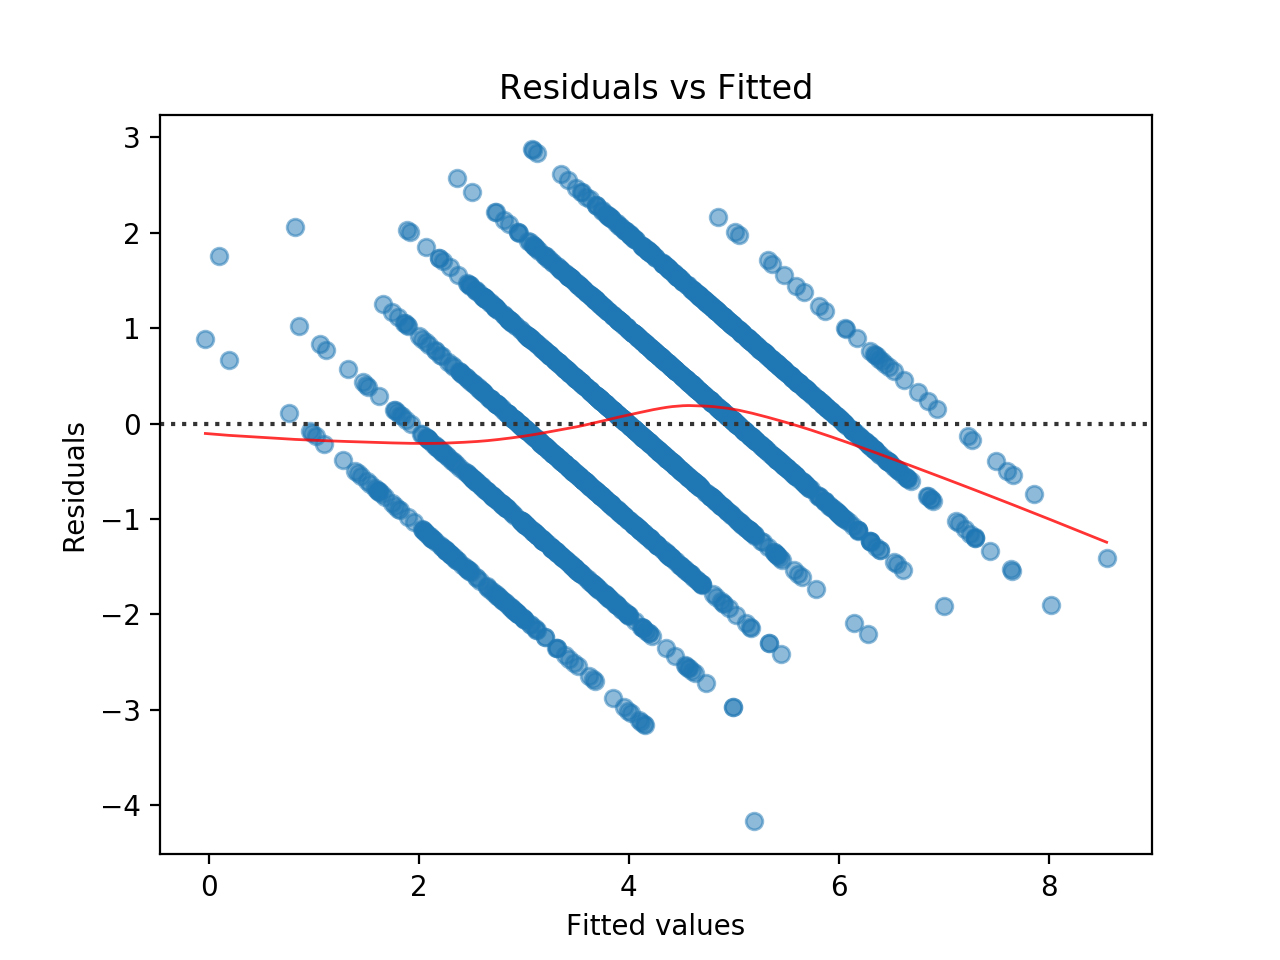
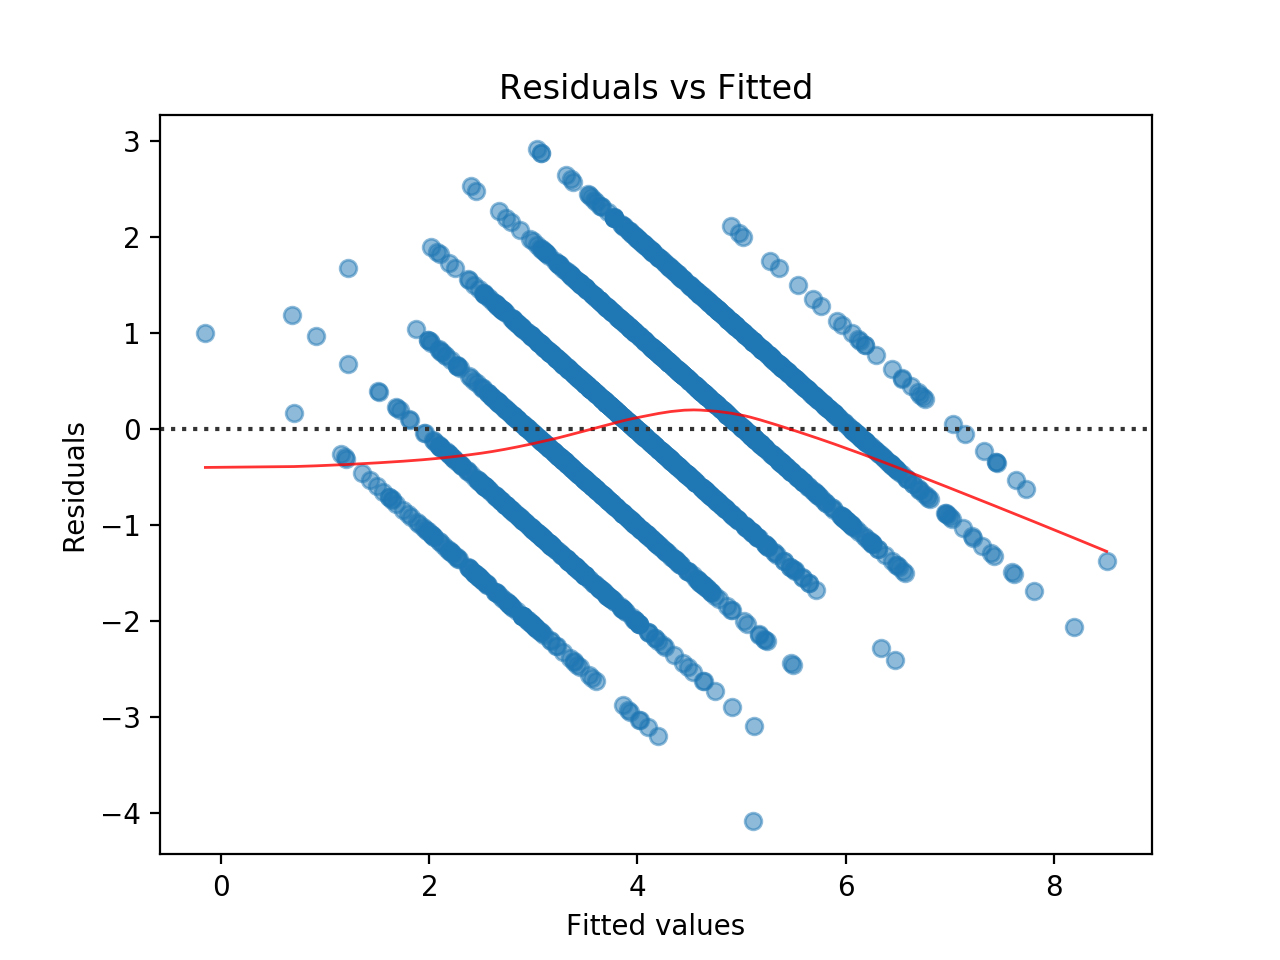
linear regression part 4 rough draft finished

diff --git a/_posts/2018-09-15-refresh-linear-regression-3.md b/_posts/2018-09-15-refresh-linear-regression-3.md
@@ -8,13 +8,12 @@ tags:
 - Linear Regression
 - Stream of Progress
 - Python
-- R
 description: 'Reviewing Linear Regression for Practice. Using Kaggle Public Dataset : Skillcraft'
 categories:
 - Linear Regression
 ---
 
-## I strongly suggest you read this part first
+## Read me first
 
 I'm going to do a simple linear regression on the variable provided in the dataset and try to visualize some problematic variables and try to make a final model with the most correlated variable. In the end, I will organize and make a kernel up on Kaggle.com if possible, so go to the link on the bottom for an organized report. 'Stream of Progress' tags are a progressive post that are going to talk about stuff that maybe aren't so worth your time.
 
@@ -149,7 +148,37 @@ TotalMapExplored     1.300130
 WorkersMade          1.189928
 {% endhighlight %}
 
-Lovely. Let's check the summary.
+Lovely. Just in case let me reduce ActionLatency instead of NumberOfPACs to see if the other model is better (ActionLatency also had VIF value over 5)
+
+{% highlight python %}
+# reducing the other variable
+removed_cols = ['GameID','LeagueIndex','TotalHours','MinimapRightClicks',
+                'UniqueUnitsMade','ComplexUnitsMade','ComplexAbilitiesUsed']
+removed_cols = removed_cols + ['APM','ActionLatency']
+x_7 = df_train.drop(removed_cols, axis=1)
+model_7 = sm.OLS(y,x_7).fit()
+
+# testing with VIF again
+mc_x = add_constant(x_7)
+pd.Series([variance_inflation_factor(mc_x.values, i) for i in range(mc_x.shape[1])],index=mc_x.columns)
+{% endhighlight %}
+
+{% highlight text %}
+const               157.123643
+Age                   1.104197
+HoursPerWeek          1.096788
+SelectByHotkeys       1.462628
+AssignToHotkeys       1.611384
+UniqueHotkeys         1.270006
+MinimapAttacks        1.122171
+NumberOfPACs          3.020198
+GapBetweenPACs        1.933692
+ActionsInPAC          1.824861
+TotalMapExplored      1.392885
+WorkersMade           1.261149
+{% endhighlight %}
+
+Hmm... while Model 6 has 2 variables with VIF over 2, Model 7 has 1 variable with VIF over 3 but others are lower than 2. Perhaps we should check this with ANOVA. Before going into ANOVA, let's check out their model summary!
 
 {% highlight python %}
 print(model_6.summary())
@@ -194,6 +223,62 @@ Warnings:
 strong multicollinearity or other numerical problems.
 {% endhighlight %}
 
-Just by skimming through the summary, seems like it's not a bad model. It still have the warning, but we have checked the VIF values. Even if ANOVA test states that Model 2 is superior, due to multicollinearity problems, I am going to pick Model 6 anyway, so let's now hop on Residual Analysis and how well it does on the test set!
+{% highlight python %}
+print(model_7.summary())
+{% endhighlight %}
+
+{% highlight text %}
+OLS Regression Results                            
+==============================================================================
+Dep. Variable:            LeagueIndex   R-squared:                       0.947
+Model:                            OLS   Adj. R-squared:                  0.947
+Method:                 Least Squares   F-statistic:                     4361.
+Date:                Sat, 15 Sep 2018   Prob (F-statistic):               0.00
+Time:                        12:00:00   Log-Likelihood:                -3795.7
+No. Observations:                2670   AIC:                             7613.
+Df Residuals:                    2659   BIC:                             7678.
+Df Model:                          11                                         
+Covariance Type:            nonrobust                                         
+====================================================================================
+                       coef    std err          t      P>|t|      [0.025      0.975]
+------------------------------------------------------------------------------------
+Age                  0.0212      0.004      5.184      0.000       0.013       0.029
+HoursPerWeek         0.0099      0.002      5.710      0.000       0.006       0.013
+SelectByHotkeys     31.3489      4.939      6.347      0.000      21.664      41.034
+AssignToHotkeys    874.1684    117.459      7.442      0.000     643.848    1104.489
+UniqueHotkeys        0.0297      0.009      3.155      0.002       0.011       0.048
+MinimapAttacks    1050.7058    137.136      7.662      0.000     781.802    1319.610
+NumberOfPACs       692.5465     25.562     27.093      0.000     642.423     742.670
+GapBetweenPACs      -0.0104      0.001     -9.035      0.000      -0.013      -0.008
+ActionsInPAC         0.1599      0.013     12.540      0.000       0.135       0.185
+TotalMapExplored    -0.0069      0.003     -2.209      0.027      -0.013      -0.001
+WorkersMade        185.1212     41.172      4.496      0.000     104.389     265.853
+==============================================================================
+Omnibus:                       10.968   Durbin-Watson:                   1.999
+Prob(Omnibus):                  0.004   Jarque-Bera (JB):               10.836
+Skew:                          -0.139   Prob(JB):                      0.00444
+Kurtosis:                       2.856   Cond. No.                     3.97e+05
+==============================================================================
+
+Warnings:
+[1] Standard Errors assume that the covariance matrix of the errors is correctly specified.
+[2] The condition number is large, 3.97e+05. This might indicate that there are
+strong multicollinearity or other numerical problems.
+{% endhighlight %}
+
+Just by skimming through the summaries, seems like Model 7 is a better pick. They both still have the warning about multicollinearity, but we've checked it through VIF, so I'm going to ignore this error moving forward.
+
+{% highlight python %}
+anova_result = anova_lm(model_6, model_7)
+print(anova_result)
+{% endhighlight %}
+
+{% highlight text %}
+   df_resid          ssr  df_diff     ss_diff    F  Pr(>F)
+0    2659.0  3369.798241      0.0         NaN  NaN     NaN
+1    2659.0  2684.315046     -0.0  685.483195 -inf     NaN
+{% endhighlight %}
+
+The only values that we can use is SSR. Model 7 is slighly better in this respect, so we'll use Model 7 as our final model, and do **residual analysis** and **predicting with test set**!
 
 <img src="../uploads/clapping.gif">

diff --git a/_posts/2018-09-18-refresh-linear-regression-4.md b/_posts/2018-09-18-refresh-linear-regression-4.md
@@ -1,0 +1,122 @@
+--
+layout: post
+title:  "Reviewing Linear Regression - Part 4"
+image: ''
+date:   2018-09-18 00:12:00
+tags:
+- Review
+- Linear Regression
+- Stream of Progress
+- Python
+description: 'Reviewing Linear Regression for Practice. Using Kaggle Public Dataset : Skillcraft'
+categories:
+- Linear Regression
+---
+
+## Read me first
+
+I'm going to do a simple linear regression on the variable provided in the dataset and try to visualize some problematic variables and try to make a final model with the most correlated variable. In the end, I will organize and make a kernel up on Kaggle.com if possible, so go to the link on the bottom for an organized report. 'Stream of Progress' tags are a progressive post that are going to talk about stuff that maybe aren't so worth your time.
+
+**Finalized Post/Blog/Kernel**
+
+* [For Kaggle](www.google.com)
+* [For My Own Blog](www.google.com)
+
+---
+
+## Residual Analysis
+
+Let's start with looking at the graphs (will only do Residual vs Fitted and Normal Q-Q).
+
+**Residual vs Fitted**
+
+{% highlight python %}
+import seaborn as sns
+
+# Fitted vs Residual (weird...)
+fr_plot = plt.figure(1)
+fr_plot.axes[0] = sns.residplot(x=model_7.fittedvalues, y=model_7.resid,
+                          lowess=True, scatter_kws={'alpha': 0.5},
+                          line_kws={'color':'red', 'lw':1, 'alpha':0.8})
+
+fr_plot.axes[0].set_title('Residuals vs Fitted')
+fr_plot.axes[0].set_xlabel('Fitted values')
+fr_plot.axes[0].set_ylabel('Residuals')
+
+plt.show()
+{% endhighlight %}
+
+<img src="../uploads/skillcraft-fitted-residual.jpg">
+
+Weird... I think there are 7 separate lines due to 7 different leagues. Think I have to come back later to find out what's going on.
+
+**Normal Q-Q**
+
+{% highlight python %}
+from statsmodels.graphics.gofplots import ProbPlot
+
+QQ = ProbPlot(model_7.resid)
+qq_plot = QQ.qqplot(line='45', alpha=0.5, color='#4C72B0', lw=1)
+
+qq_plot.axes[0].set_title('Normal QQ')
+qq_plot.axes[0].set_xlabel('Theoretical Quantiles')
+qq_plot.axes[0].set_ylabel('Standardized Residuals')
+
+plt.show()
+{% endhighlight %}
+
+<img src="../uploads/skillcraft-normal-qq.jpg">
+
+Except the one data point that's at the left bottom seems a bit bad, but overall the graph seems to fit fine.
+
+So there are 4 assumptions to be analyzed
+
+1. Normality
+2. Heteroscedasticity
+3. Independence
+4. Linearity
+
+**1. Normality**
+
+For visual confirmation, we just need to look at Normal QQ graph. If the data points are near the linear red line, then it usually satisfies the normality assumption. To get a number for this, it's possible to get the correlation. (I'm not sure how to do this on Python, in R you could just use the model summary to get it)
+
+It's also possible to use Shapiro-Wilk normality test.
+
+{% highlight python %}
+stats.shapiro(model_7.resid)
+{% endhighlight %}
+
+{% highlight text %}
+(0.998132050037384, 0.0032792764250189066)
+{% endhighlight %}
+
+Err... since the p-value is lower than 0.05, it shows a strong evidence that the Null Hypothesis is not supported. In other words, it fails the Shaprio-Wilk normality test. So I've googled a bit and found out Shaprio-Wilk normality test is sensitive, and looking at the Normal Q-Q plot is usually more reliable.
+
+After reading some StackOverflow posts, seems like Anderson-Darling is a better normality test in my case due to the size of samples.
+
+{% highlight python %}
+anderson_result = stats.anderson(model_7.resid)
+anderson_result[1][2]
+{% endhighlight %}
+
+{% highlight text %}
+0.786
+{% endhighlight %}
+
+Since the p-value is higher than 0.05, it shows a strong evidence to not reject the Null Hypothesis. So it passes this normality test.
+
+**2. Heteroscedasticity**
+
+Well... just by looking at the Residual vs Fitted Graph, we can already kind of conclude that heteroscedasticity exists. Just for the sake of practice I wanted to try a NCV test, but it seems python doesn't support this (really shows R is better in linear regression...).
+
+**3. Independence**
+
+This one is already done. We use the Durbin-Watson value we got from the OLS summary. The value was very close to 2, so it already satisfies the Independence test.
+
+**4. Linearity**
+
+Ermm... will come back to this later after the test set.
+
+---
+
+Predicting with Test Set left! (and more additional studies...). When I was studying linear regression, a senior student told me that R is much better with linear regression and I could feel that heavily throughout the process. Should stick with R for linear regressions and simple machine learning (R is very slow, if you do a kNN with R few MB of data, it almost takes half of a day to calculate...).

diff --git a/_posts/2018-09-04-Refresh-Linear-Regression-1.md b/_posts/2018-09-04-Refresh-Linear-Regression-1.md
@@ -8,7 +8,6 @@ tags:
 - Linear Regression
 - Stream of Progress
 - Python
-- R
 description: 'Reviewing Linear Regression for Practice. Using Kaggle Public Dataset : Skillcraft'
 categories:
 - Linear Regression
@@ -16,7 +15,7 @@ categories:
 
 ---
 
-## I strongly suggest you read this part first
+## Read me first
 
 I'm going to do a simple linear regression on the variable provided in the dataset and try to visualize some problematic variables and try to make a final model with the most correlated variable. In the end, I will organize and make a kernel up on Kaggle.com if possible, so go to the link on the bottom for an organized report. 'Stream of Progress' tags are a progressive post that are going to talk about stuff that maybe aren't so worth your time.
 

diff --git a/_posts/2018-09-12-refresh-linear-regression-2.md b/_posts/2018-09-12-refresh-linear-regression-2.md
@@ -8,13 +8,12 @@ tags:
 - Linear Regression
 - Stream of Progress
 - Python
-- R
 description: 'Reviewing Linear Regression for Practice. Using Kaggle Public Dataset : Skillcraft'
 categories:
 - Linear Regression
 ---
 
-## I strongly suggest you read this part first
+## Read me first
 
 I'm going to do a simple linear regression on the variable provided in the dataset and try to visualize some problematic variables and try to make a final model with the most correlated variable. In the end, I will organize and make a kernel up on Kaggle.com if possible, so go to the link on the bottom for an organized report. 'Stream of Progress' tags are a progressive post that are going to talk about stuff that maybe aren't so worth your time.
 
